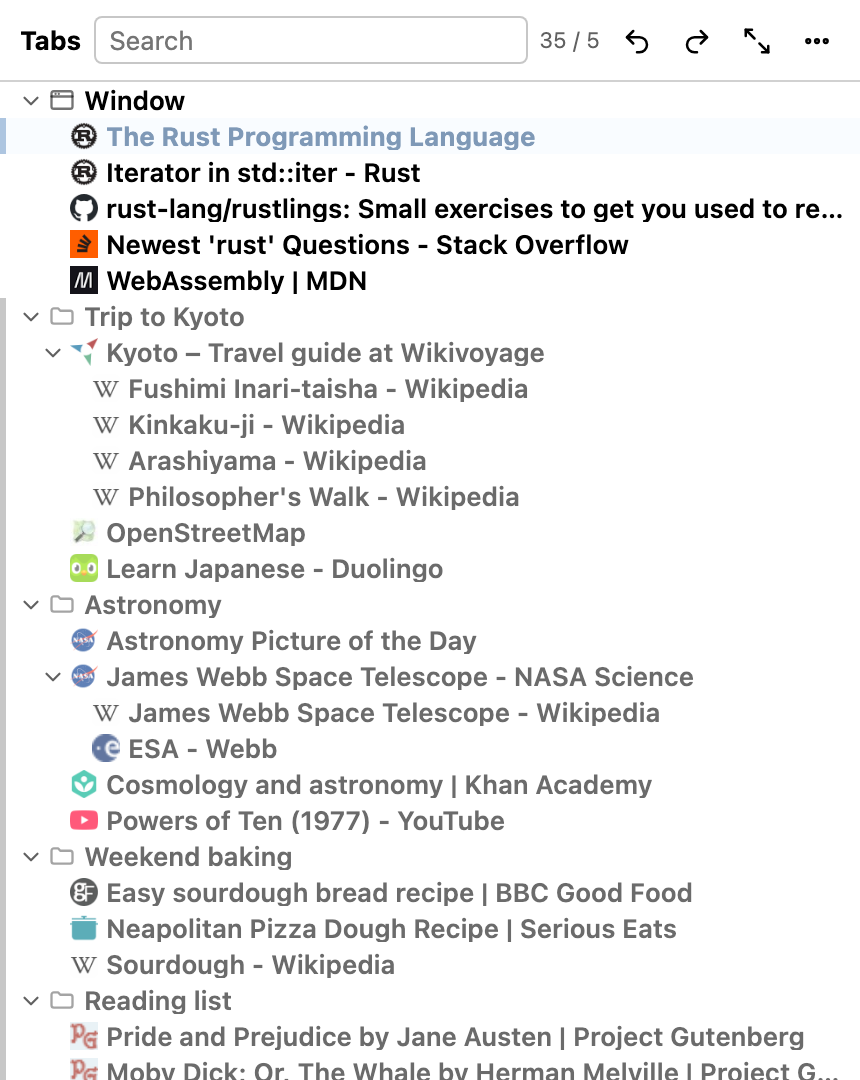
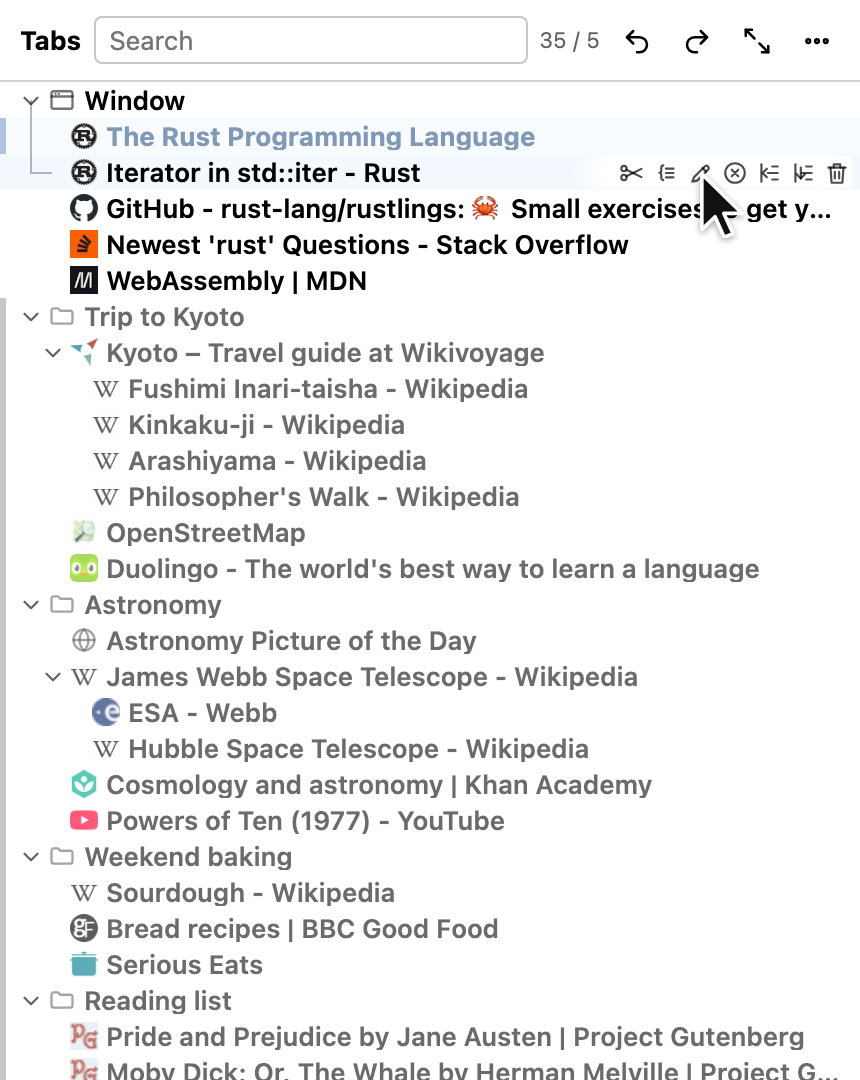
fix(listing): no hover mid-drag, accurate demo titles, loud setup failures (claude review)
From an independent review:

- The drag shot hovered a row after dragstart, revealing its actions and guide.
  The app clears hover on DragStart and Firefox sends no hover during a real
  drag, so that frame can't happen. The drag shot is now drag-only; the outline
  shot shows hover instead, with the cursor drawn on the row's rename action.
- Rewriting sidebar.html to load the background first failed silently if the
  script tag ever changed, ending in a puzzling 30s timeout. It now throws.
- Demo content: real titles (rustlings, Duolingo, Python docs without a
  version that dates the listing); no NASA insignia (APOD has no favicon, so it
  shows the kind glyph); no rows that match the search only by url; the
  collapsed group is "Programming", so its Rust By Example match fits. Dropped
  the unused mozilla.org and nasa.gov fixtures.
- Only the images are export-ignored now, so the source zip keeps the config
  and demo tree its package.json scripts and docs point at.
- store-listing.md says the committed PNGs are the Chromium render, documents
  `playwright install firefox`, and notes that output follows the host's font
  and accent colour, and that AMO letterboxes sidebar-shaped shots.

diff --git a/screenshots/listing.spec.ts b/screenshots/listing.spec.ts
@@ -12,12 +12,12 @@ async function bootSidebar(page: Page) {
   await page.addInitScript(installFakeBrowser, liveSeed);
   await page.route("**/sidebar/sidebar.html", async (route) => {
     const html = await readFile("dist/sidebar/sidebar.html", "utf8");
+    const tag = '<script src="sidebar.js"></script>';
+    // fail here, not as a puzzling timeout with no background answering
+    if (!html.includes(tag)) throw new Error(`sidebar.html no longer loads its script as ${tag}`);
     await route.fulfill({
       contentType: "text/html",
-      body: html.replace(
-        '<script src="sidebar.js"></script>',
-        '<script src="../background/background.js"></script><script src="sidebar.js"></script>'
-      ),
+      body: html.replace(tag, `<script src="../background/background.js"></script>${tag}`),
     });
   });
   await page.goto("/sidebar/sidebar.html");
@@ -55,10 +55,34 @@ async function calm(page: Page) {
   await page.evaluate(() => (document.activeElement as HTMLElement | null)?.blur());
 }
 
-// A drag's pointer is drawn by the OS, so a screenshot has neither it nor the
-// dragged row's ghost. Draw both into the page: the ghost (a faded copy of the
-// dragged row) and an arrow cursor with its tip at (x, y).
-async function drawPointer(page: Page, dragged: string, x: number, y: number) {
+// The OS draws the pointer, and during a drag the dragged row's ghost, so a
+// screenshot has neither. Draw them into the page.
+const CURSOR_SVG =
+  '<svg xmlns="http://www.w3.org/2000/svg" width="22" height="33" viewBox="0 0 12 18">' +
+  '<path d="M.5.5v15.2l3.6-3.5 2.5 5.6 2.4-1-2.5-5.5h5z" fill="#111" stroke="#fff" stroke-width="1" stroke-linejoin="round"/></svg>';
+
+// An arrow cursor with its tip at (x, y).
+async function drawCursor(page: Page, x: number, y: number) {
+  await page.evaluate(
+    ([svg, x, y]) => {
+      const cursor = document.createElement("div");
+      cursor.innerHTML = svg as string;
+      Object.assign(cursor.style, {
+        position: "fixed",
+        left: `${x}px`,
+        top: `${y}px`,
+        pointerEvents: "none",
+        zIndex: "1001",
+        filter: "drop-shadow(0 1px 1.5px rgb(0 0 0 / 0.35))",
+      });
+      document.body.append(cursor);
+    },
+    [CURSOR_SVG, x, y] as const
+  );
+}
+
+// A faded copy of the dragged row, held at the point (x, y) it was grabbed by.
+async function drawGhost(page: Page, dragged: string, x: number, y: number) {
   await page.evaluate(
     ([text, x, y]) => {
       const row = [...document.querySelectorAll<HTMLElement>(".row")].find((r) => r.textContent?.includes(text as string))!;
@@ -80,19 +104,6 @@ async function drawPointer(page: Page, dragged: string, x: number, y: number) {
         zIndex: "1000",
       });
       document.body.append(ghost);
-      const cursor = document.createElement("div");
-      cursor.innerHTML =
-        '<svg xmlns="http://www.w3.org/2000/svg" width="22" height="33" viewBox="0 0 12 18">' +
-        '<path d="M.5.5v15.2l3.6-3.5 2.5 5.6 2.4-1-2.5-5.5h5z" fill="#111" stroke="#fff" stroke-width="1" stroke-linejoin="round"/></svg>';
-      Object.assign(cursor.style, {
-        position: "fixed",
-        left: `${x as number}px`,
-        top: `${y as number}px`,
-        pointerEvents: "none",
-        zIndex: "1001",
-        filter: "drop-shadow(0 1px 1.5px rgb(0 0 0 / 0.35))",
-      });
-      document.body.append(cursor);
     },
     [dragged, x, y] as const
   );
@@ -102,6 +113,11 @@ const rowOf = (page: Page, text: string) => page.locator(".row").filter({ hasTex
 
 test("outline", async ({ page }) => {
   await bootSidebar(page);
+  // the pointer over a row reveals its actions; draw it on one (rename)
+  const hovered = rowOf(page, "Iterator in std::iter");
+  await hovered.hover();
+  const action = (await hovered.locator(".node-actions button").nth(2).boundingBox())!;
+  await drawCursor(page, action.x + action.width / 2, action.y + action.height / 2);
   await shoot(page, "1-outline");
 });
 
@@ -112,10 +128,9 @@ test("drag", async ({ page }) => {
   const target = rowOf(page, "Kinkaku-ji");
   await target.dispatchEvent("dragover");
   await expect(page.locator(".drop-indicator")).toHaveCount(1);
-  // and the row actions, as hovering any row reveals them
-  await rowOf(page, "Learn Japanese").hover();
   const line = (await target.boundingBox())!;
-  await drawPointer(page, "Arashiyama", 230, line.y);
+  await drawGhost(page, "Arashiyama", 230, line.y);
+  await drawCursor(page, 230, line.y);
   // close in on the Kyoto group, like the original listing's zoomed shot
   const top = (await rowOf(page, "Trip to Kyoto").boundingBox())!.y;
   const last = (await rowOf(page, "Astronomy Picture").boundingBox())!;
@@ -124,7 +139,7 @@ test("drag", async ({ page }) => {
 
 test("search", async ({ page }) => {
   await bootSidebar(page);
-  // matches inside the collapsed Python group are found too
+  // matches inside the collapsed Programming group are found too
   await page.locator("#search").fill("iter");
   await expect(rowOf(page, "itertools")).toBeVisible();
   const last = (await page.locator(".row").last().boundingBox())!;

diff --git a/screenshots/demo-tree.ts b/screenshots/demo-tree.ts
@@ -23,7 +23,7 @@ export const liveSeed: Seed = {
       tabs: [
         { id: 11, url: "https://doc.rust-lang.org/book/", title: "The Rust Programming Language", favIconUrl: icon("doc.rust-lang.org"), active: true },
         { id: 12, url: "https://doc.rust-lang.org/std/iter/trait.Iterator.html", title: "Iterator in std::iter - Rust", favIconUrl: icon("doc.rust-lang.org") },
-        { id: 13, url: "https://github.com/rust-lang/rustlings", title: "rust-lang/rustlings: Small exercises to get you used to reading and writing Rust code", favIconUrl: icon("github.com") },
+        { id: 13, url: "https://github.com/rust-lang/rustlings", title: "GitHub - rust-lang/rustlings: 🦀 Small exercises to get you used to reading and writing Rust code!", favIconUrl: icon("github.com") },
         { id: 14, url: "https://stackoverflow.com/questions/tagged/rust", title: "Newest 'rust' Questions - Stack Overflow", favIconUrl: icon("stackoverflow.com") },
         { id: 15, url: "https://developer.mozilla.org/en-US/docs/WebAssembly", title: "WebAssembly | MDN", favIconUrl: icon("developer.mozilla.org") },
       ],
@@ -48,21 +48,22 @@ const saved: Saved[] = [
       wiki("Philosopher's Walk"),
     ]),
     tab("OpenStreetMap", "https://www.openstreetmap.org/#map=13/35.0116/135.7681", "openstreetmap.org"),
-    tab("Learn Japanese - Duolingo", "https://www.duolingo.com/course/ja/en/Learn-Japanese", "duolingo.com"),
+    tab("Duolingo - The world's best way to learn a language", "https://www.duolingo.com/", "duolingo.com"),
   ]),
   group("Astronomy", [
-    tab("Astronomy Picture of the Day", "https://apod.nasa.gov/apod/astropix.html", "nasa.gov"),
-    tab("James Webb Space Telescope - NASA Science", "https://science.nasa.gov/mission/webb/", "nasa.gov", [
-      wiki("James Webb Space Telescope"),
+    // APOD has no favicon: its row shows the kind glyph, as the sidebar does
+    { title: "Astronomy Picture of the Day", url: "https://apod.nasa.gov/apod/astropix.html" },
+    wiki("James Webb Space Telescope", [
       tab("ESA - Webb", "https://www.esa.int/Science_Exploration/Space_Science/Webb", "esa.int"),
+      wiki("Hubble Space Telescope"),
     ]),
     tab("Cosmology and astronomy | Khan Academy", "https://www.khanacademy.org/science/cosmology-and-astronomy", "khanacademy.org"),
     tab("Powers of Ten (1977) - YouTube", "https://www.youtube.com/watch?v=0fKBhvDjuy0", "youtube.com"),
   ]),
   group("Weekend baking", [
-    tab("Easy sourdough bread recipe | BBC Good Food", "https://www.bbcgoodfood.com/recipes/sourdough-bread", "bbcgoodfood.com"),
-    tab("Neapolitan Pizza Dough Recipe | Serious Eats", "https://www.seriouseats.com/neapolitan-pizza-dough-recipe", "seriouseats.com"),
     wiki("Sourdough"),
+    tab("Bread recipes | BBC Good Food", "https://www.bbcgoodfood.com/recipes/collection/bread-recipes", "bbcgoodfood.com"),
+    tab("Serious Eats", "https://www.seriouseats.com/", "seriouseats.com"),
   ]),
   group("Reading list", [
     tab("Pride and Prejudice by Jane Austen | Project Gutenberg", "https://www.gutenberg.org/ebooks/1342", "gutenberg.org"),
@@ -70,13 +71,13 @@ const saved: Saved[] = [
     tab("Internet Archive: Digital Library of Free & Borrowable Books", "https://archive.org/", "archive.org"),
   ]),
   group(
-    "Python",
+    "Programming",
     [
-      tab("3.13.0 Documentation", "https://docs.python.org/3/", "python.org", [
+      tab("Python documentation", "https://docs.python.org/3/", "python.org", [
         tab("itertools — Functions creating iterators for efficient looping", "https://docs.python.org/3/library/itertools.html", "python.org"),
-        tab("Iterator Types — Built-in Types", "https://docs.python.org/3/library/stdtypes.html#iterator-types", "python.org"),
+        tab("The Python Tutorial", "https://docs.python.org/3/tutorial/", "python.org"),
       ]),
-      tab("Iterators and generators - JavaScript | MDN", "https://developer.mozilla.org/en-US/docs/Web/JavaScript/Guide/Iterators_and_generators", "developer.mozilla.org"),
+      tab("Iterators - Rust By Example", "https://doc.rust-lang.org/rust-by-example/trait/iter.html", "doc.rust-lang.org"),
       tab("Welcome to Python.org", "https://www.python.org/", "python.org"),
     ],
     true

diff --git a/docs/store-listing.md b/docs/store-listing.md
@@ -84,10 +84,18 @@ manifest), so no privacy policy should be required — but confirm this in the
 
 `pnpm screenshots` renders the sidebar shots into `docs/screenshots/` from a
 curated demo outline (`screenshots/demo-tree.ts`: well-known sites, no personal
-data), in Playwright's Firefox. Where that Firefox can't launch, use
-`pnpm screenshots:chromium` (same shots; the accent colour and font rendering
-differ slightly). Re-run it whenever the sidebar's look changes. Captions, as on
-the listing:
+data), in Playwright's Firefox (one-time setup: `pnpm exec playwright install
+firefox`). Where that Firefox can't launch, `pnpm screenshots:chromium` renders
+the same shots in Chromium; its form controls, accent colour and font
+rendering differ, so prefer Firefox for what gets uploaded. Output follows the
+host's system font and accent colour, so re-rendering on another machine changes
+the PNGs slightly. Re-run it whenever the sidebar's look changes.
+
+The committed PNGs are currently the **Chromium** render — re-render in Firefox
+before uploading. AMO frames screenshots at 1280×800 (16:10); these are
+sidebar-shaped and get letterboxed, as the 1.0.0 listing's were.
+
+Captions, as on the listing:
 
 1. `1-outline.png` — Keep as many tabs as you like. Close them to reclaim memory — nothing is lost, and your tree survives every restart.
 2. `2-drag.png` — Reorganize by dragging, with a live drop preview; hover any row for quick actions — group, rename, cut, delete.
